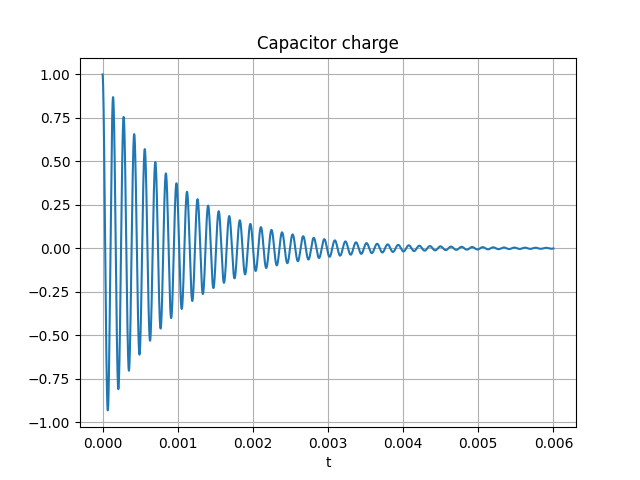
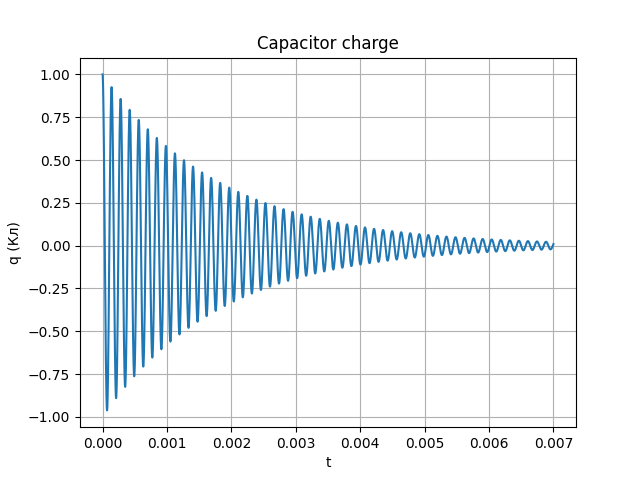
feat: Improve simulation & data output

diff --git a/module1/main.py b/module1/main.py
@@ -3,13 +3,15 @@ import matplotlib.pyplot as pyplot
 from os import path, mkdir
 import model
 import simulation
+import analysis
 
 
-def plot(num, time: [float], data: [float], title: str, plot_path: str):
+def plot(num, time: [float], data: [float], title: str, ylabel: str, plot_path: str):
     pyplot.figure(num)
     pyplot.grid()
     pyplot.title(title)
     pyplot.xlabel('t')
+    pyplot.ylabel(ylabel)
     pyplot.plot(time, data)
     pyplot.savefig(plot_path)
 
@@ -26,17 +28,23 @@ def main(debug: Optional[bool] = False):
         C = 50 * 10 ** -9
         L = 10 * 10 ** -3
         Rm = 10
-        R0 = 0
-        simulation_time = 0.006
+        R0 = 1
+        simulation_time = 0.007
         interval = 0.000_000_5
     circuit = model.OscillatoryCircuit(C, L, Rm, R0)
     data = simulation.simulate(circuit, simulation_time, interval)
 
+    print("T (theor.) = {:.7f}".format(circuit.period))
+    print("T (exp.) = {:.7f}".format(analysis.experimental_period(data)))
+    print("Lambda (theor.) = {:.5f}".format(circuit.lambda_coefficient))
+    print("Lambda (exp.) = {:.5f}".format(analysis.experimental_lambda(data)))
+    print("Q-factor = {:.5f}".format(circuit.q_factor))
+
     if not path.exists('results'):
         mkdir('results')
-    plot(1, data.time, data.capacitor_charge, 'Capacitor charge', 'results/charge.png')
-    plot(2, data.time, data.capacitor_voltage, 'Capacitor voltage', 'results/voltage.png')
-    plot(3, data.time, data.capacitor_current, 'Capacitor current', 'results/current.png')
+    plot(1, data.time, data.capacitor_charge, 'Capacitor charge', 'q (Кл)', 'results/charge.png')
+    plot(2, data.time, data.capacitor_voltage, 'Capacitor voltage', 'U (V)', 'results/voltage.png')
+    plot(3, data.time, data.capacitor_current, 'Capacitor current', 'I (A)', 'results/current.png')
     if not debug:
         pyplot.show()
 

diff --git a/module1/model.py b/module1/model.py
@@ -23,16 +23,23 @@ class OscillatoryCircuit:
 
     @property
     def __betta__(self) -> float:
-        return self.resistance / self.L
+        return self.resistance / (2 * self.L)
 
     @property
-    def __lambda__(self) -> float:
-        period = math.pi / math.sqrt(1 / (self.L * self.C) - (self.resistance ** 2) / (4 * (self.L ** 2)))
-        return self.__betta__ * period
+    def lambda_coefficient(self) -> float:
+        return self.__betta__ * self.period
 
     @property
     def resistance(self) -> float:
         return self.Rm + self.R0
+
+    @property
+    def period(self) -> float:
+        return 2 * math.pi / self.frequency
+
+    @property
+    def q_factor(self) -> float:
+        return 1 / self.resistance * math.sqrt(self.L / self.C)
 
     def capacitor_charge(self, time: float) -> float:
         q0 = self.__initial_capacitor_charge__

diff --git a/module1/analysis.py b/module1/analysis.py
@@ -1,0 +1,21 @@
+import math
+
+import numpy
+from scipy.signal import argrelmax
+
+import simulation
+
+
+def experimental_period(data: simulation.SimulationData) -> float:
+    max_indices = argrelmax(numpy.array(data.capacitor_charge))[0][2:15]
+    max_time_values = list(map(lambda i: data.time[i], max_indices))
+    intervals = []
+    for i in range(1, len(max_time_values)):
+        intervals.append(max_time_values[i] - max_time_values[i - 1])
+    return sum(intervals) / len(intervals)
+
+
+def experimental_lambda(data: simulation.SimulationData) -> float:
+    max_indices = argrelmax(numpy.array(data.capacitor_voltage))[0]
+    return 1 / 3 * math.log(data.capacitor_voltage[max_indices[3]] /
+                    data.capacitor_voltage[max_indices[6]])
